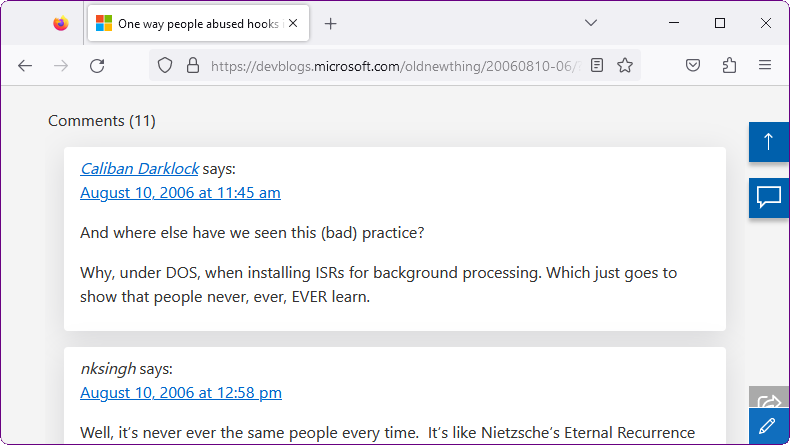
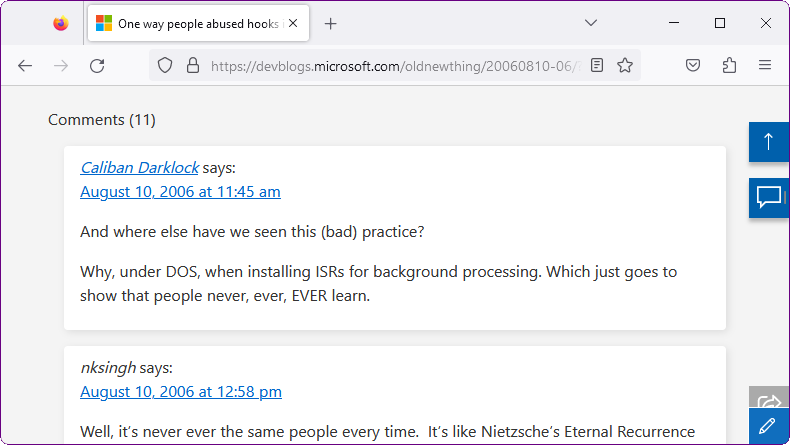
Update styles

diff --git a/the-old-new-thing-userscript.user.js b/the-old-new-thing-userscript.user.js
@@ -1,7 +1,7 @@
 // ==UserScript==
 // @name         The Old New Thing comments
 // @namespace    https://m417z.com/
-// @version      1.1
+// @version      1.1.1
 // @description  Shows archived comments for old pages of The Old New Thing, fixes old links
 // @author       m417z
 // @match        https://devblogs.microsoft.com/oldnewthing/*
@@ -33,8 +33,12 @@
         }
 
         const style = `<style>
-            #comments, #comments * {
+            #comments, #comments *:not(blockquote) {
                 all: revert;
+            }
+
+            #comments > .commenttable {
+                width: 100%;
             }
 
             #comments ol.comment-list {
@@ -44,10 +48,16 @@
             #comments ol.comment-list > li.comment {
                 background-color: #fff;
                 border-radius: 4px;
-                box-shadow: rgba(100, 100, 111, 0.2) 0px 7px 29px 0px;
+                box-shadow: 2px 2px 8px rgba(0,0,0,.1);
                 list-style-type: none;
                 padding: 0.5em 1em;
                 margin: 1em;
+            }
+
+            #comments ol.comment-list > li.comment .post {
+                background-color: #f1f1f1;
+                padding: 0px 8px;
+                border: 1px solid #000;
             }
         </style>`;
 
